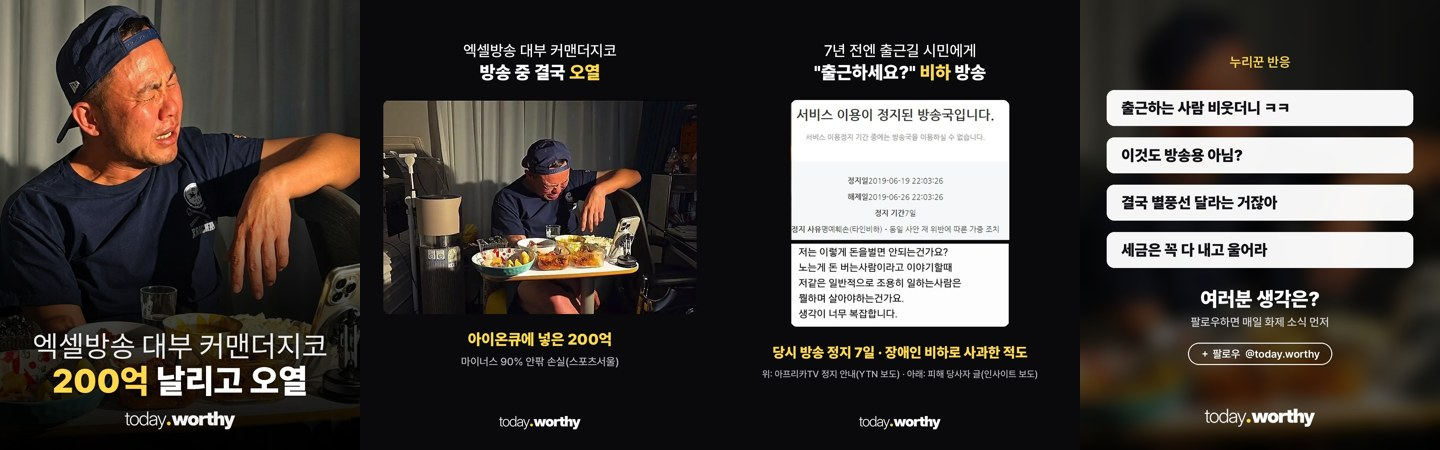
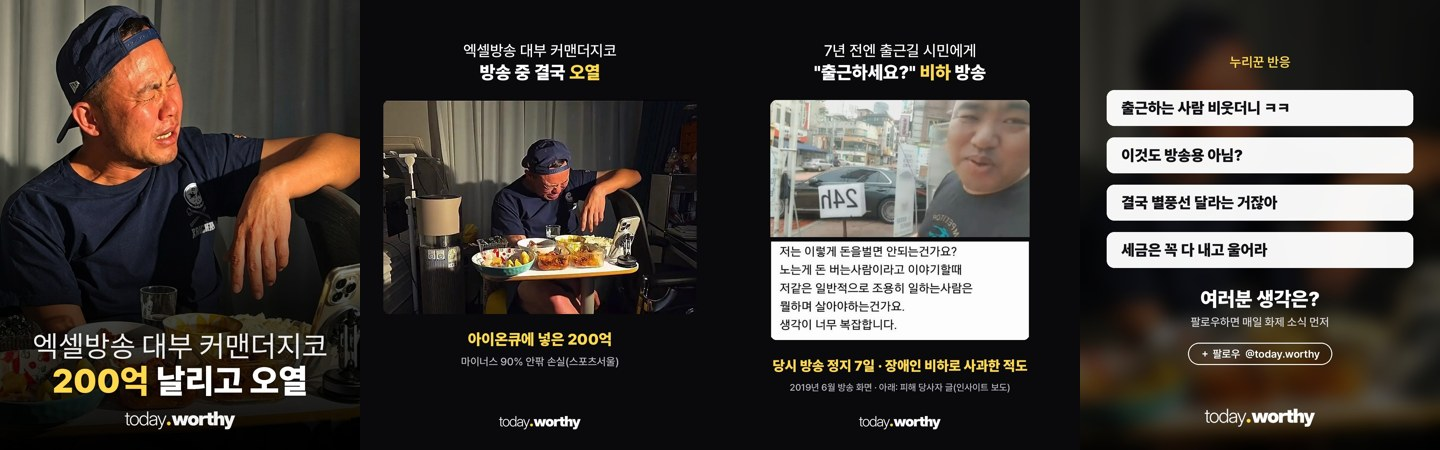
zico: 3장 2019 비하 방송 사진(사용자 제공)
Claude-Session: https://claude.ai/code/session_01FGsw5S4nGrZdCJo7qBU1wE

Changed region(s): [[0.5312, 0.2178, 0.7188, 0.8711]]

diff --git a/media/20261123-zico/make_s3.py b/media/20261123-zico/make_s3.py
@@ -14,18 +14,18 @@ def rc(d, y, t, f, base):
         hl = p.startswith("'"); p = p.strip("'"); d.text((x, y), p, font=f, fill=YE if hl else base, anchor="ls"); x += d.textlength(p, font=f)
 
 
-a = Image.open(O / "y19.jpg").convert("RGB").crop((655, 200, 1280, 600))
+a = Image.open(O / "p19.jpg").convert("RGB")
 b = Image.open(O / "v19.jpg").convert("RGB").crop((0, 1212, 700, 1478))
 a = a.resize((940, round(a.height * 940 / a.width)), Image.LANCZOS)
 b = b.resize((940, round(b.height * 940 / b.width)), Image.LANCZOS)
 ph = Image.new("RGB", (940, a.height + 16 + b.height), (10, 10, 12)); ph.paste(a, (0, 0)); ph.paste(b, (0, a.height + 16))
-if ph.height > 680: ph = ph.resize((round(940 * 680 / ph.height), 680), Image.LANCZOS)
+if ph.height > 720: ph = ph.resize((round(940 * 720 / ph.height), 720), Image.LANCZOS)
 im = Image.new("RGB", (W, H), (10, 10, 12)); d = ImageDraw.Draw(im)
 rc(d, 168, "7년 전엔 출근길 시민에게", F("Medium", 46), FG); rc(d, 236, "\"출근하세요?\" '비하' 방송", F("Black", 54), FG)
 m = Image.new("L", ph.size, 0); ImageDraw.Draw(m).rounded_rectangle((0, 0, ph.width - 1, ph.height - 1), 18, fill=255)
 im.paste(ph, ((W - ph.width) // 2, 300), m); d = ImageDraw.Draw(im); y = 300 + ph.height + 92
 rc(d, y, "당시 방송 정지 '7일' · 장애인 비하로 사과한 적도", F("Black", 42), YE)
-rc(d, y + 60, "위: 아프리카TV 정지 안내(YTN 보도) · 아래: 피해 당사자 글(인사이트 보도)", F("Medium", 28), (190, 190, 198))
+rc(d, y + 60, "2019년 6월 방송 화면 · 아래: 피해 당사자 글(인사이트 보도)", F("Medium", 28), (190, 190, 198))
 lg = Image.open(R / "brand/logo_typo_A.png").convert("RGBA"); lh = 40; lw = int(lg.width * lh / lg.height)
 lg = lg.resize((lw, lh), Image.LANCZOS); im.paste(lg, ((W - lw) // 2, H - 62 - lh), lg)
 im.save(O / "c03.jpg", quality=93); print("ok", ph.size)
